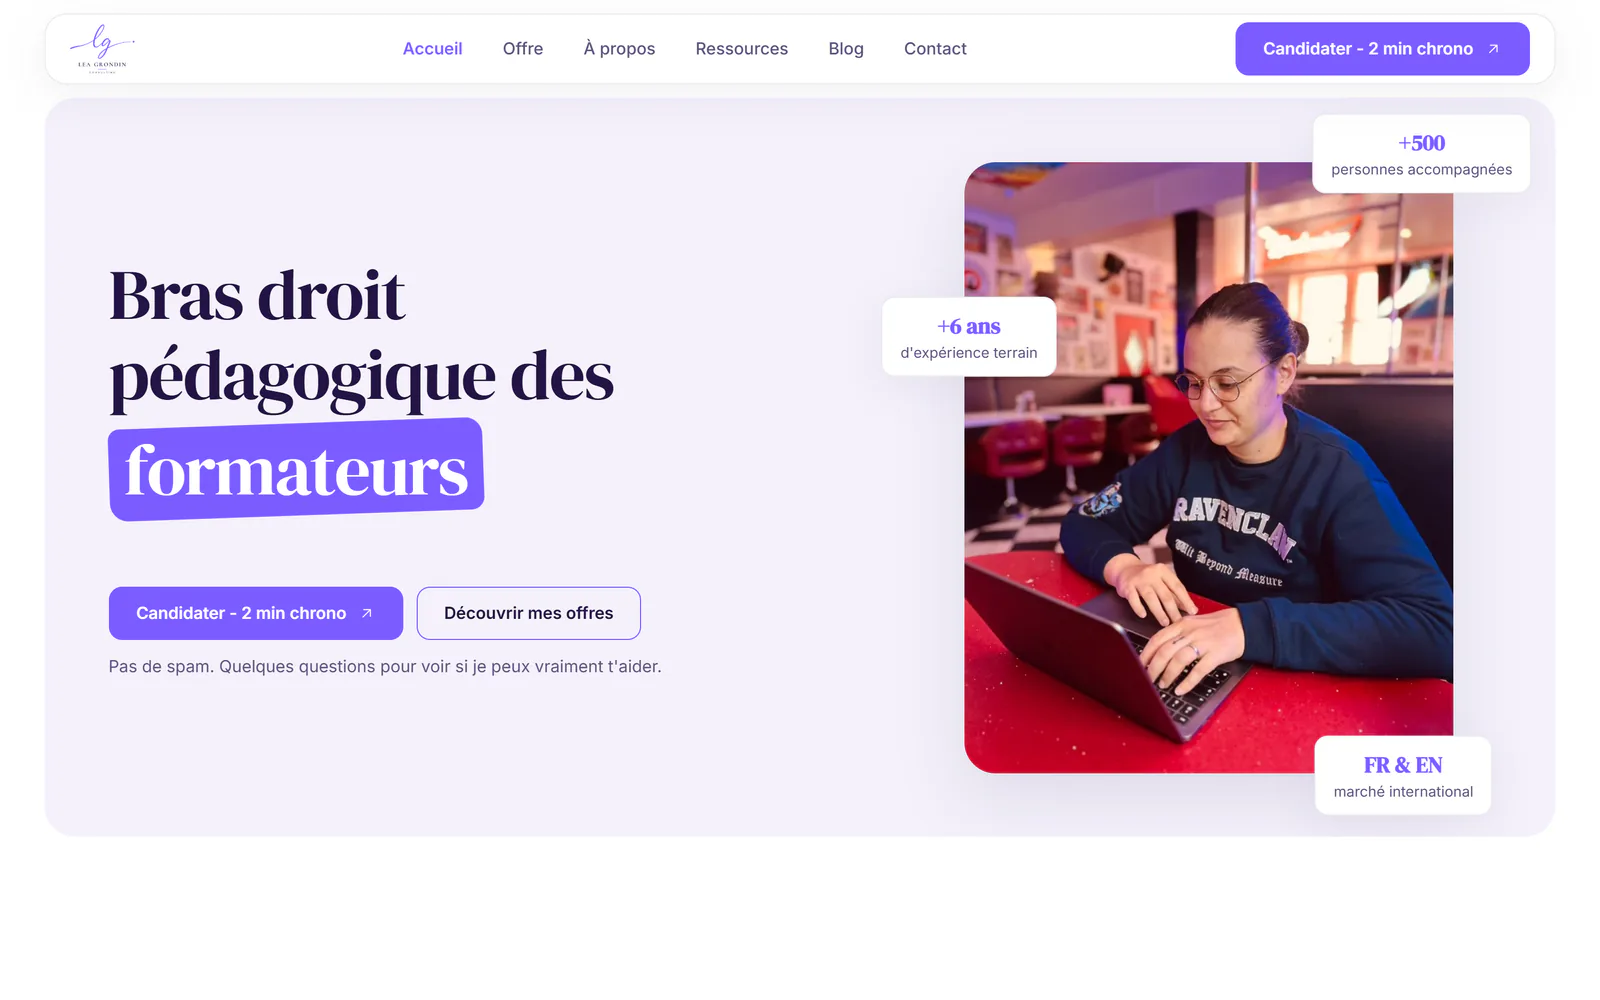
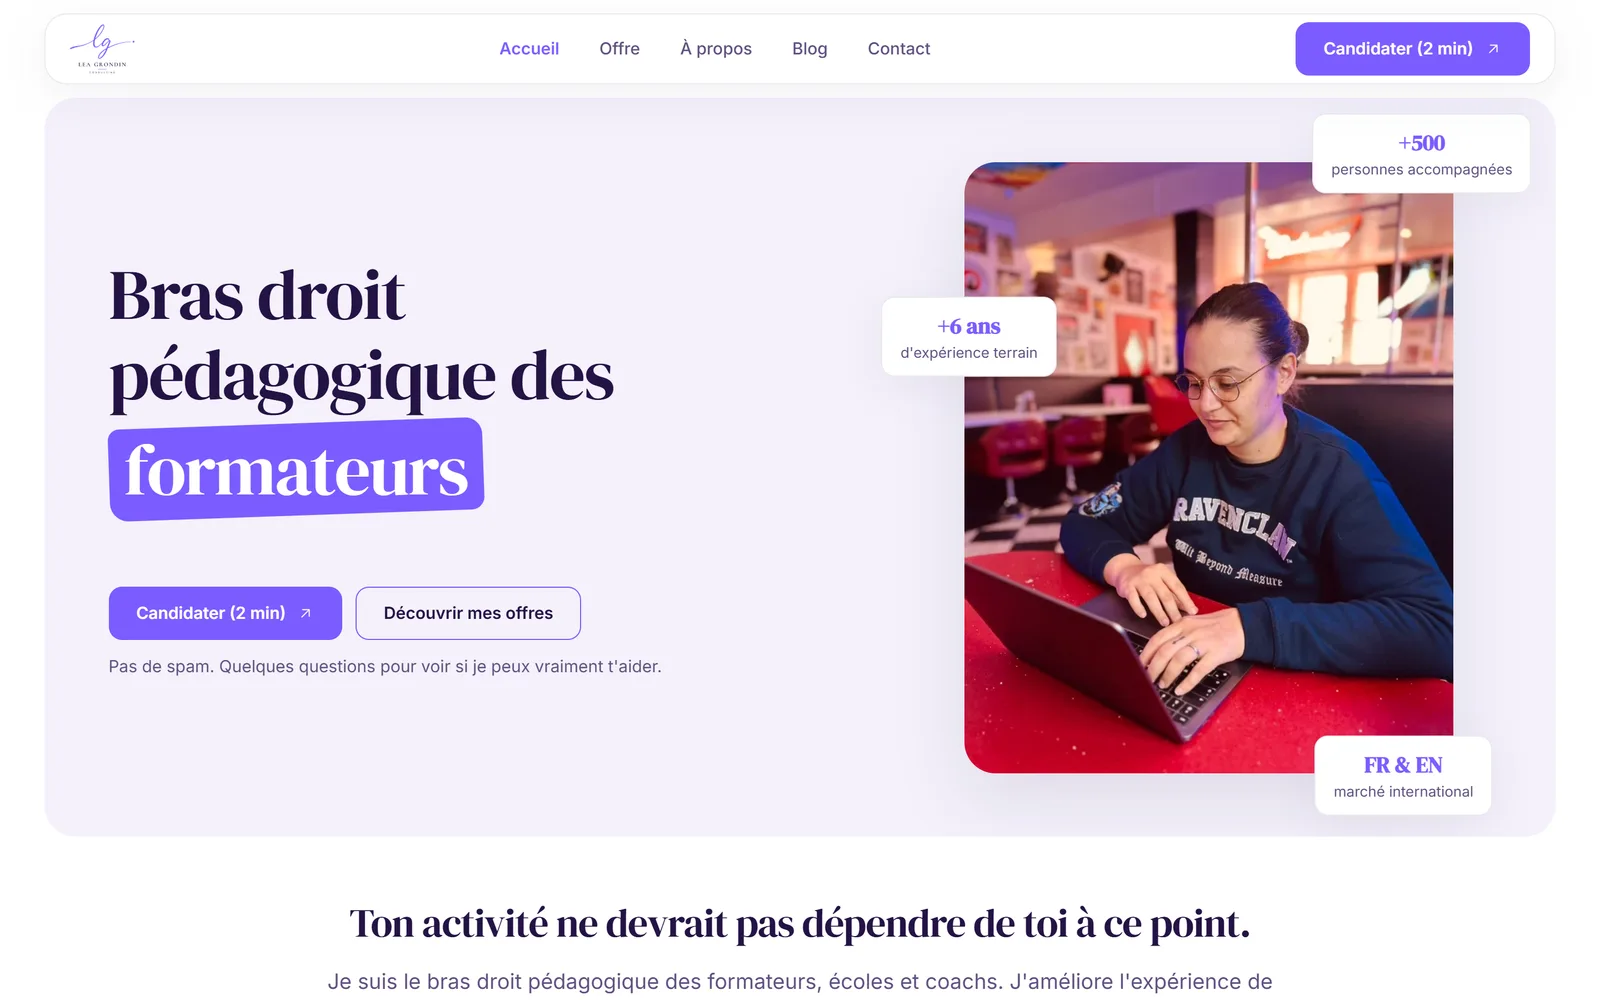
Met à jour le projet de Léa Grondin après la mise en ligne de son site : lien, capture, cinq pages

diff --git a/content/projects.ts b/content/projects.ts
@@ -45,26 +45,27 @@ export const projects: Project[] = [
     solution:
       "un site vitrine de plusieurs pages, rapide et agréable sur téléphone comme sur ordinateur, structuré pour être bien référencé sur Google et les IA",
     result: "une offre plus claire et un site qui lui ressemble",
+    url: "https://leagrondin.fr/",
     year: 2026,
     caseStudy: {
       facts: [
         ["Cliente", "Léa Grondin, consultante business"],
         ["Projet", "refonte d’un site d’une seule page"],
-        ["Pages", "6 après la refonte"],
+        ["Pages", "5 après la refonte"],
         ["Propriété", "le site appartient à Léa, sans abonnement"],
       ],
       sections: [
         {
           title: "Le point de départ",
           paragraphs: [
-            "Léa Grondin est consultante business, le bras droit pédagogique des formateurs et des experts. Son site tenait sur une seule page, générée avec Lovable, un outil d’IA. Elle était si longue qu’on ne comprenait pas vite ce que Léa propose, et on n’y retrouvait pas sa signature.",
+            "Léa Grondin est consultante business, le bras droit pédagogique des formateurs, écoles et coachs. Son site tenait sur une seule page, générée avec Lovable, un outil d’IA. Elle était si longue qu’on ne comprenait pas vite ce que Léa propose, et on n’y retrouvait pas sa signature.",
           ],
         },
         {
           title: "Ce que j’ai fait",
           paragraphs: [
             "J’ai commencé par relever tout le contenu de son site, mot pour mot, pour ne rien perdre. Tout ce qui est en ligne vient d’elle : ses textes, ses clients, ses témoignages, sa photo. Aucun chiffre ni logo inventé.",
-            "J’ai ensuite conçu et développé un site vitrine de six pages : accueil, offre, à propos, ressources, blog et contact. Il s’affiche aussi bien sur téléphone que sur ordinateur, et chaque page a son titre et sa description pour Google. Deux séries de retours, fin août puis début octobre, ont affiné les contenus.",
+            "J’ai ensuite conçu et développé un site vitrine de cinq pages : accueil, offre, à propos, blog et contact. Il s’affiche aussi bien sur téléphone que sur ordinateur, et chaque page a son titre et sa description pour Google. Deux séries de retours, fin août puis début octobre, ont affiné les contenus.",
             "Ses pages légales reprennent les textes qu’elle m’a fournis : je ne rédige pas de documents juridiques.",
             "Léa possède son site : ce sont de simples fichiers, qu’elle peut héberger où elle veut, sans abonnement à une plateforme.",
           ],
